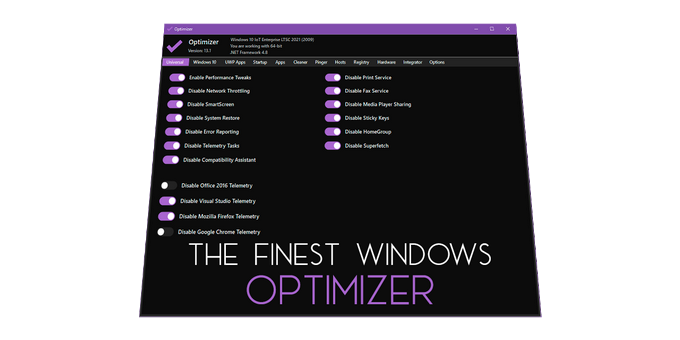
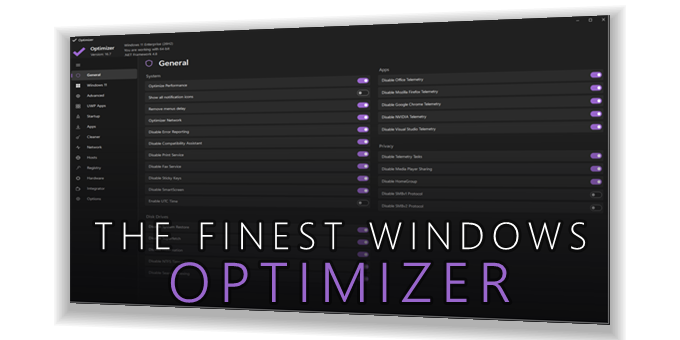
Major upgrade to v17.0

diff --git a/README.md b/README.md
@@ -1,15 +1,3 @@
-> ⚠ **Optimizer is now deprecated and replaced by OptimizerNXT!**
-
-> **Click on the banner below to go to the new project!**
-
----
-
-<p align="center">
-	<a href="https://github.com/hellzerg/optimizerNXT" target="_blank">
-   		<img src="https://raw.githubusercontent.com/hellzerg/optimizer/master/new-optimizerNXT.png">
-	</a>
-</p>
-
 <center>
 <h2>ℹ Advanced Privacy and Security Configuration Utility</h2> 
 </center>
@@ -40,6 +28,7 @@ Welcome to Optimizer, an advanced configuration utility designed to enhance your
 - Remove unwanted startup programs
 - Edit your HOSTS file
 - Edit your System Variables paths
+- Monitor your disk activity
 - Identify and terminate file lock handles
 - Hardware inspection tool
 - Add items to the desktop right-click menu
@@ -100,7 +89,7 @@ Learn about our security measures in the [Security Policy](https://github.com/he
 <h2> 💻 Compatibility</h2> 
 </center>
 
-- Requires .NET Framework 4.8.1
+- Requires .NET Framework 4.8
 - Compatible with Windows 7, 8, 8.1, 10, 11
 - Can run on Windows Server 2008, 2012, 2016, 2019, 2022 using `/unsafe` switch
 
@@ -108,8 +97,8 @@ Learn about our security measures in the [Security Policy](https://github.com/he
 <h2> 📊 Details</h2> 
 </center>
 
-- Latest version: 16.7 (Released: August 18, 2024)
-- SHA256: 03A234060541B686AC4265754AFF43DF9325C21383F90E17F831E67965D717F8
+- Latest version: 17.0 (Released: November 12, 2026)
+- SHA256: -
 
 <center>
 <h2> ☕ Buy me a delicious espresso</h2>

diff --git a/CHANGELOG.md b/CHANGELOG.md
@@ -1,3 +1,14 @@
+## [17.0] - 2026-11-11
+- New: Complete visual redesign with a modern Fluent look
+- New: Theme engine with dark and light modes and accent color support
+- New: Modern typography
+- New: Startup items redesigned as cards with search, filtering
+- New: Startup items now show and toggle their Task Manager enabled/disabled state
+- New: Modern Apps are now listed and removed via the WinRT PackageManager API
+- New: Disk Activity tool
+- Improved: Apps feed links updated, discontinued apps removed
+- Improved: Newtonsoft.Json updated to 13.0.4
+
 ## [16.7] - 2024-08-18
 - New: Disable Edge and Chrome telemetry options now extends Manifest v2 support
 - New: Enable Registry Periodic Backups

diff --git a/SECURITY.md b/SECURITY.md
@@ -6,9 +6,9 @@ Thank you for choosing the Optimizer! We take security seriously and are committ
 
 We actively support the following version of the Optimizer:
 
-| Version | Supported          |
-| ------- | ------------------ |
-| 16.x   | ✅                |
+| Version | Supported           |
+| ------- | -----------------   |
+| >= 17.x  | ✅               |
 
 If you are using a version older than 15.x, we highly recommend upgrading to the latest version to benefit from the latest security enhancements and features.
 
